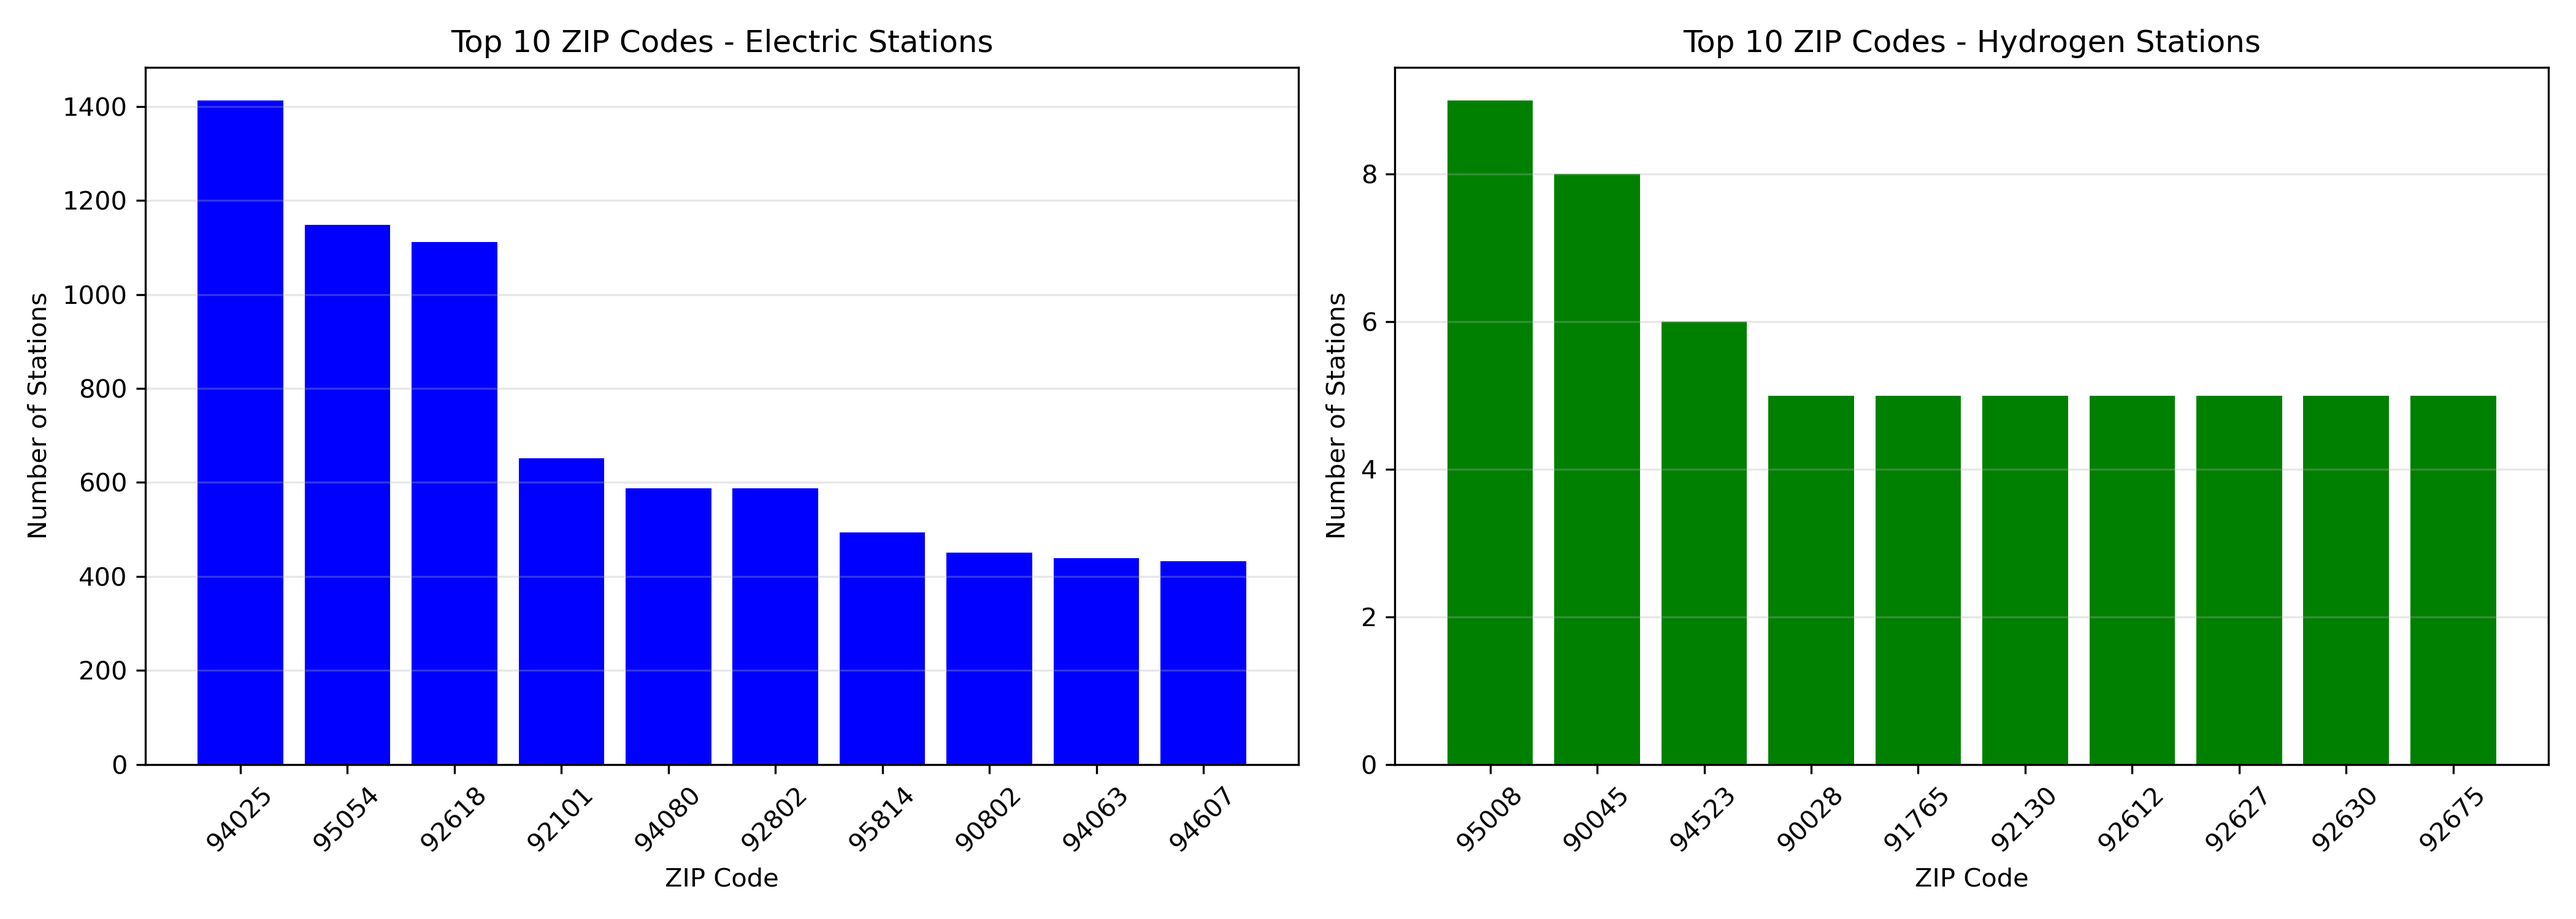
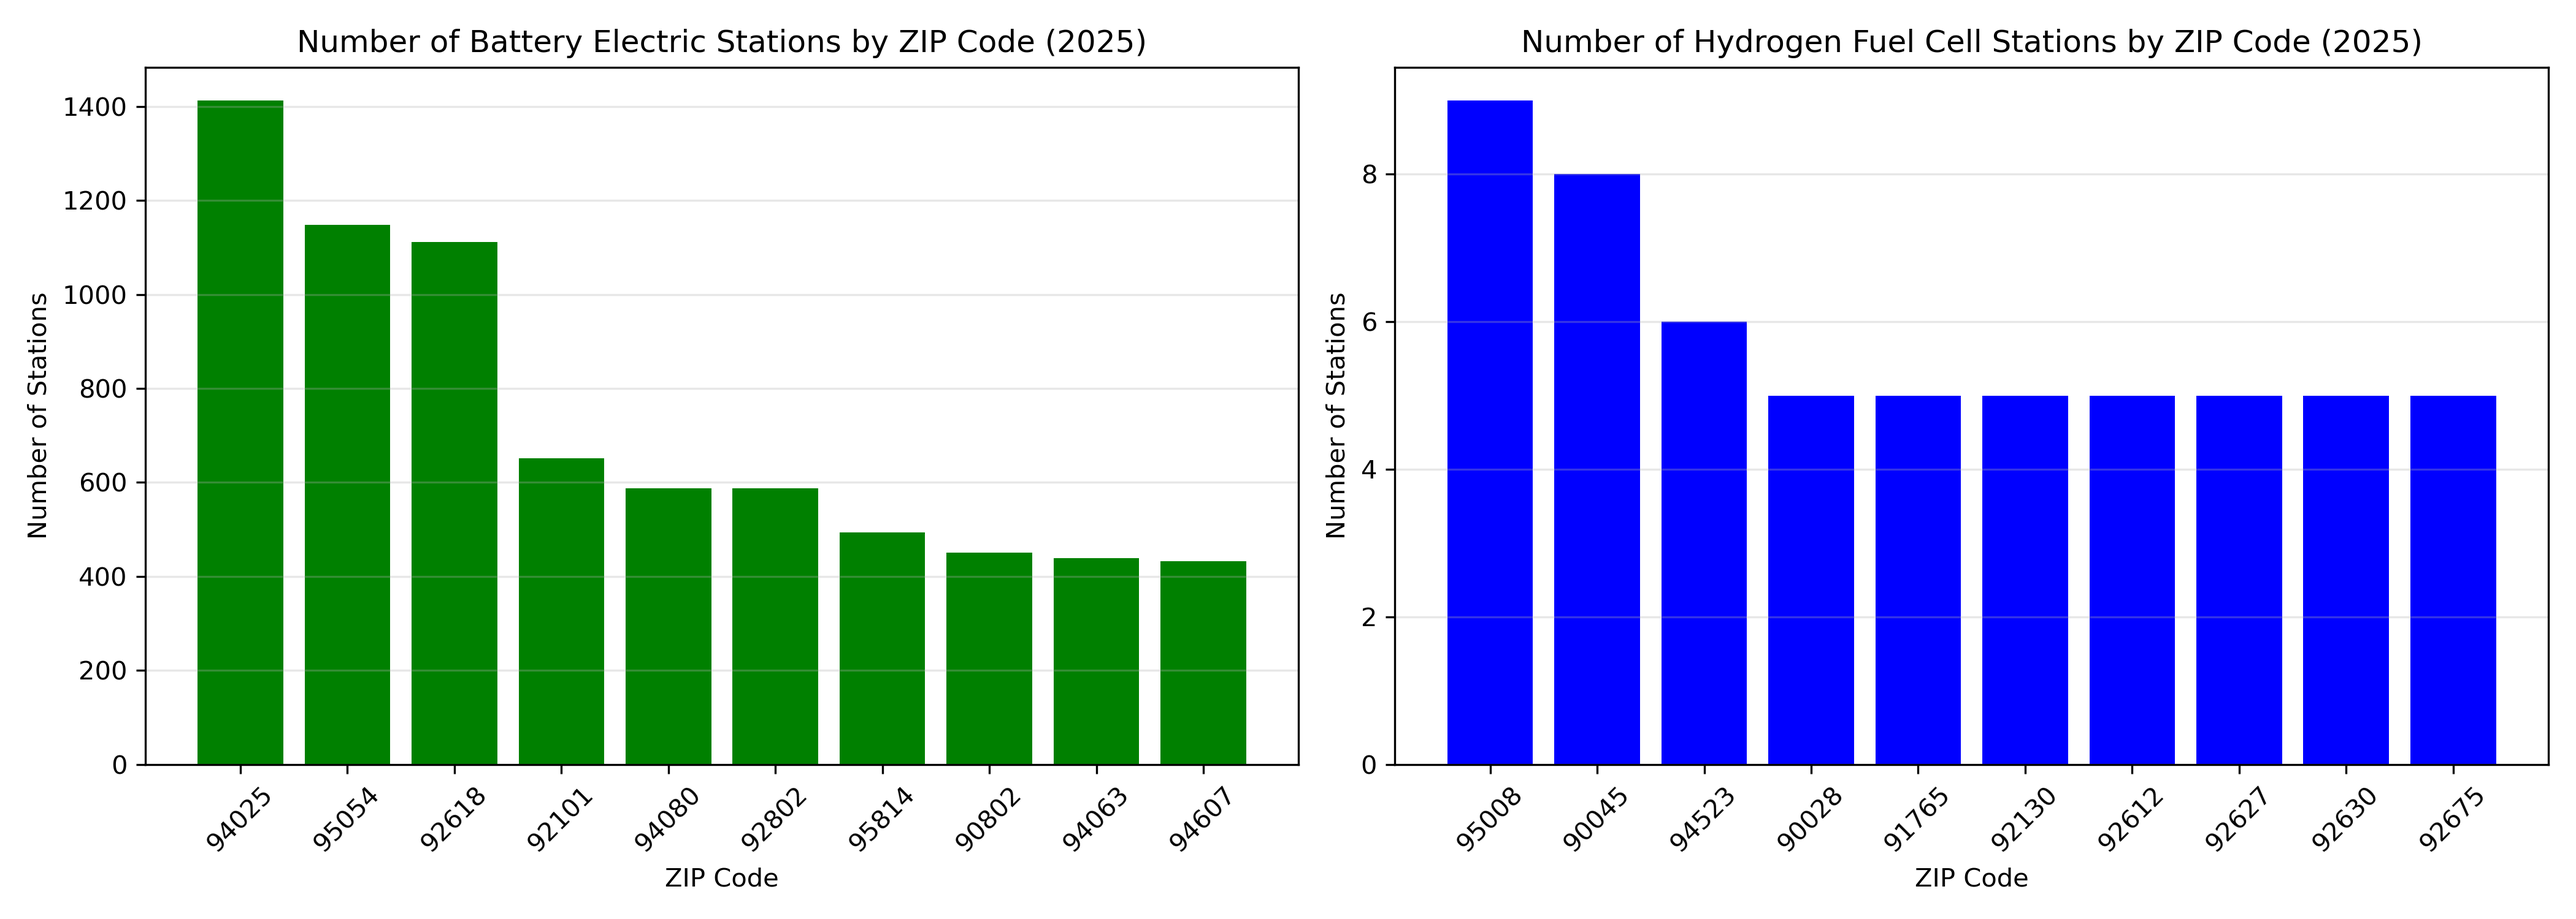
a

diff --git a/stat_analysis.py b/stat_analysis.py
@@ -56,16 +56,16 @@ hy_zip = (
 fig, axes = plt.subplots(1, 2, figsize=(14, 5))
 
 # Electric
-axes[0].bar(elec_zip["ZIP"], elec_zip["station_count"], color="blue")
-axes[0].set_title("Top 10 ZIP Codes - Electric Stations")
+axes[0].bar(elec_zip["ZIP"], elec_zip["station_count"], color="green")
+axes[0].set_title("Number of Battery Electric Stations by ZIP Code (2025)")
 axes[0].set_xlabel("ZIP Code")
 axes[0].set_ylabel("Number of Stations")
 axes[0].tick_params(axis="x", rotation=45)
 axes[0].grid(axis="y", alpha=0.3)
 
 # Hydrogen
-axes[1].bar(hy_zip["ZIP"], hy_zip["station_count"], color="green")
-axes[1].set_title("Top 10 ZIP Codes - Hydrogen Stations")
+axes[1].bar(hy_zip["ZIP"], hy_zip["station_count"], color="blue")
+axes[1].set_title("Number of Hydrogen Fuel Cell Stations by ZIP Code (2025)")
 axes[1].set_xlabel("ZIP Code")
 axes[1].set_ylabel("Number of Stations")
 axes[1].tick_params(axis="x", rotation=45)
